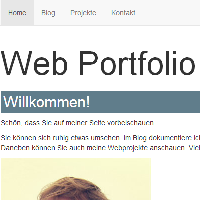
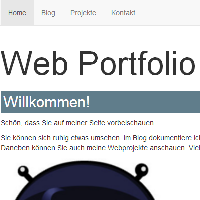
Change marco image

Changed region(s): [[0.0, 0.78, 0.78, 1.0]]

diff --git a/collections/library/html-css-de-part7.md b/collections/library/html-css-de-part7.md
@@ -5,6 +5,7 @@ date: 2014-08-16 00:00
 slug: html-css/de/part7
 github: https://github.com/marcojakob/code.makery.ch/edit/master/collections/library/html-css-de-part7.md
 description: "Wie kann man noch mehr lernen über HTML & CSS."
+image: /assets/library/html-css/portfolio.png
 published: true
 prettify: true
 comments: true
@@ -45,6 +46,8 @@ In diesem letzten Teil zeige ich Ihnen Möglichkeiten auf, wie Sie Ihre Fähigke
 
 ## Mehr HTML & CSS
 
+<a href="/library/more-html-css/de/" class="btn btn-warning"><i class="fa fa-hand-o-right"></i> Mehr HTML &amp; CSS Tutorial</a>
+
 Die Serie [Mehr HTML & CSS](/library/more-html-css/de/) ist eine Sammlung von Anleitungen zu verschiedenen Themen rund um HTML & CSS. 
 
 Die Anleitungen bauen direkt auf den Kenntnissen aus diesem Tutorial auf. Es gibt dabei keine bestimmte Reihenfolge zwischen den einzelnen Teilen. Schauen Sie sich einfach die Themen an, welche Sie interessieren.
@@ -52,6 +55,11 @@ Die Anleitungen bauen direkt auf den Kenntnissen aus diesem Tutorial auf. Es gib
 
 ## Webapplikationen mit Dart
 
-Lernen Sie, dynamische Webapplikationen mit Dart zu entwickeln.
+<a href="/library/hello-dart/de/" class="btn btn-warning"><i class="fa fa-hand-o-right"></i> Hello Dart: Einführung in die Programmierung</a>
 
-... coming soon ...
+Lernen Sie, dynamische Webapplikationen mit Dart zu entwickeln. [Hello Dart](/library/hello-dart/de/) bietet eine Einführung, die keine Programmierkenntnisse voraussetzt.
+
+
+## Mehr kommt bald...
+
+Bald werden weitere Anleitungen zur Programmierung veröffentlicht. Wenn Sie informiert werden möchten, schreiben Sie sich für den [Newsletter](https://tinyletter.com/code-makery) ein.

diff --git a/collections/library/html-css-de-part1.md b/collections/library/html-css-de-part1.md
@@ -5,6 +5,7 @@ date: 2014-08-13 00:00
 slug: html-css/de/part1
 github: https://github.com/marcojakob/code.makery.ch/edit/master/collections/library/html-css-de-part1.md
 description: "Erstellen Sie Ihre erste Webseite. Hier lernen Sie die Tools und die Grundlagen von HTML & CSS kennen."
+image: /assets/library/html-css/portfolio.png
 published: true
 prettify: true
 comments: true
@@ -292,7 +293,7 @@ Der gesamte Code könnte nun etwa so aussehen (ich habe noch eine Unterüberschr
 
 So sieht im Moment mein Portfolio im Browser aus:
 
-![Portfolio](/assets/library/html-css/part1/portfolio-de.png)
+![Portfolio](/assets/library/html-css/part1/portfolio-de.jpg)
 
 
 ***

diff --git a/collections/library/html-css-de-part3.md b/collections/library/html-css-de-part3.md
@@ -5,6 +5,7 @@ date: 2014-08-13 00:00
 slug: html-css/de/part3
 github: https://github.com/marcojakob/code.makery.ch/edit/master/collections/library/html-css-de-part3.md
 description: "Lernen Sie, wie Sie mit CSS eine Webseite gestalten können."
+image: /assets/library/html-css/portfolio.png
 published: true
 prettify: true
 comments: true
@@ -394,7 +395,7 @@ Dann können wir diesen einen Titel im CSS ansprechen mit `.title`. Die CSS-Rege
 
 Wenn alles geklappt hat, dann sieht das Portfolio nun etwa so aus: 
 
-![Portfolio](/assets/library/html-css/part3/portfolio-de.png)
+![Portfolio](/assets/library/html-css/part3/portfolio-de.jpg)
 
 
 ***

diff --git a/collections/library/html-css-de.md b/collections/library/html-css-de.md
@@ -5,6 +5,7 @@ date: 2014-08-13 00:00
 slug: html-css/de
 github: https://github.com/marcojakob/code.makery.ch/edit/master/collections/library/html-css-de.md
 description: "Mit diesem Tutorial lernen Sie die Grundlagen von HTML & CSS, damit Sie eigene Webprojekte realisieren können. Wir beginnen sofort mit einer eigenen Webseite für Ihr Portfolio."
+image: /assets/library/html-css/portfolio.png
 published: true
 prettify: true
 comments: true

diff --git a/collections/library/html-css-de-part4.md b/collections/library/html-css-de-part4.md
@@ -5,6 +5,7 @@ date: 2014-08-13 00:00
 slug: html-css/de/part4
 github: https://github.com/marcojakob/code.makery.ch/edit/master/collections/library/html-css-de-part4.md
 description: "Lernen Sie die Entwicklertools im Browser kennen (Chrome Developer Tools)."
+image: /assets/library/html-css/portfolio.png
 published: true
 prettify: true
 comments: true

diff --git a/collections/library/html-css-de-part2.md b/collections/library/html-css-de-part2.md
@@ -5,6 +5,7 @@ date: 2014-08-13 00:00
 slug: html-css/de/part2
 github: https://github.com/marcojakob/code.makery.ch/edit/master/collections/library/html-css-de-part2.md
 description: "Lernen Sie, wie man eine Webseite live im Internet veröffentlicht."
+image: /assets/library/html-css/portfolio.png
 published: true
 prettify: true
 comments: true

diff --git a/collections/library/html-css-de-part6.md b/collections/library/html-css-de-part6.md
@@ -5,6 +5,7 @@ date: 2014-08-13 00:00
 slug: html-css/de/part6
 github: https://github.com/marcojakob/code.makery.ch/edit/master/collections/library/html-css-de-part6.md
 description: "Lernen Sie das Bootstrap-Framework für Ihre Webseite einzusetzen."
+image: /assets/library/html-css/portfolio.png
 published: true
 prettify: true
 comments: true

diff --git a/collections/library/html-css-de-part5.md b/collections/library/html-css-de-part5.md
@@ -5,6 +5,7 @@ date: 2014-08-13 00:00
 slug: html-css/de/part5
 github: https://github.com/marcojakob/code.makery.ch/edit/master/collections/library/html-css-de-part5.md
 description: "Lernen Sie, wie man eine Navigation für die Website erstellt."
+image: /assets/library/html-css/portfolio.png
 published: true
 prettify: true
 comments: true
